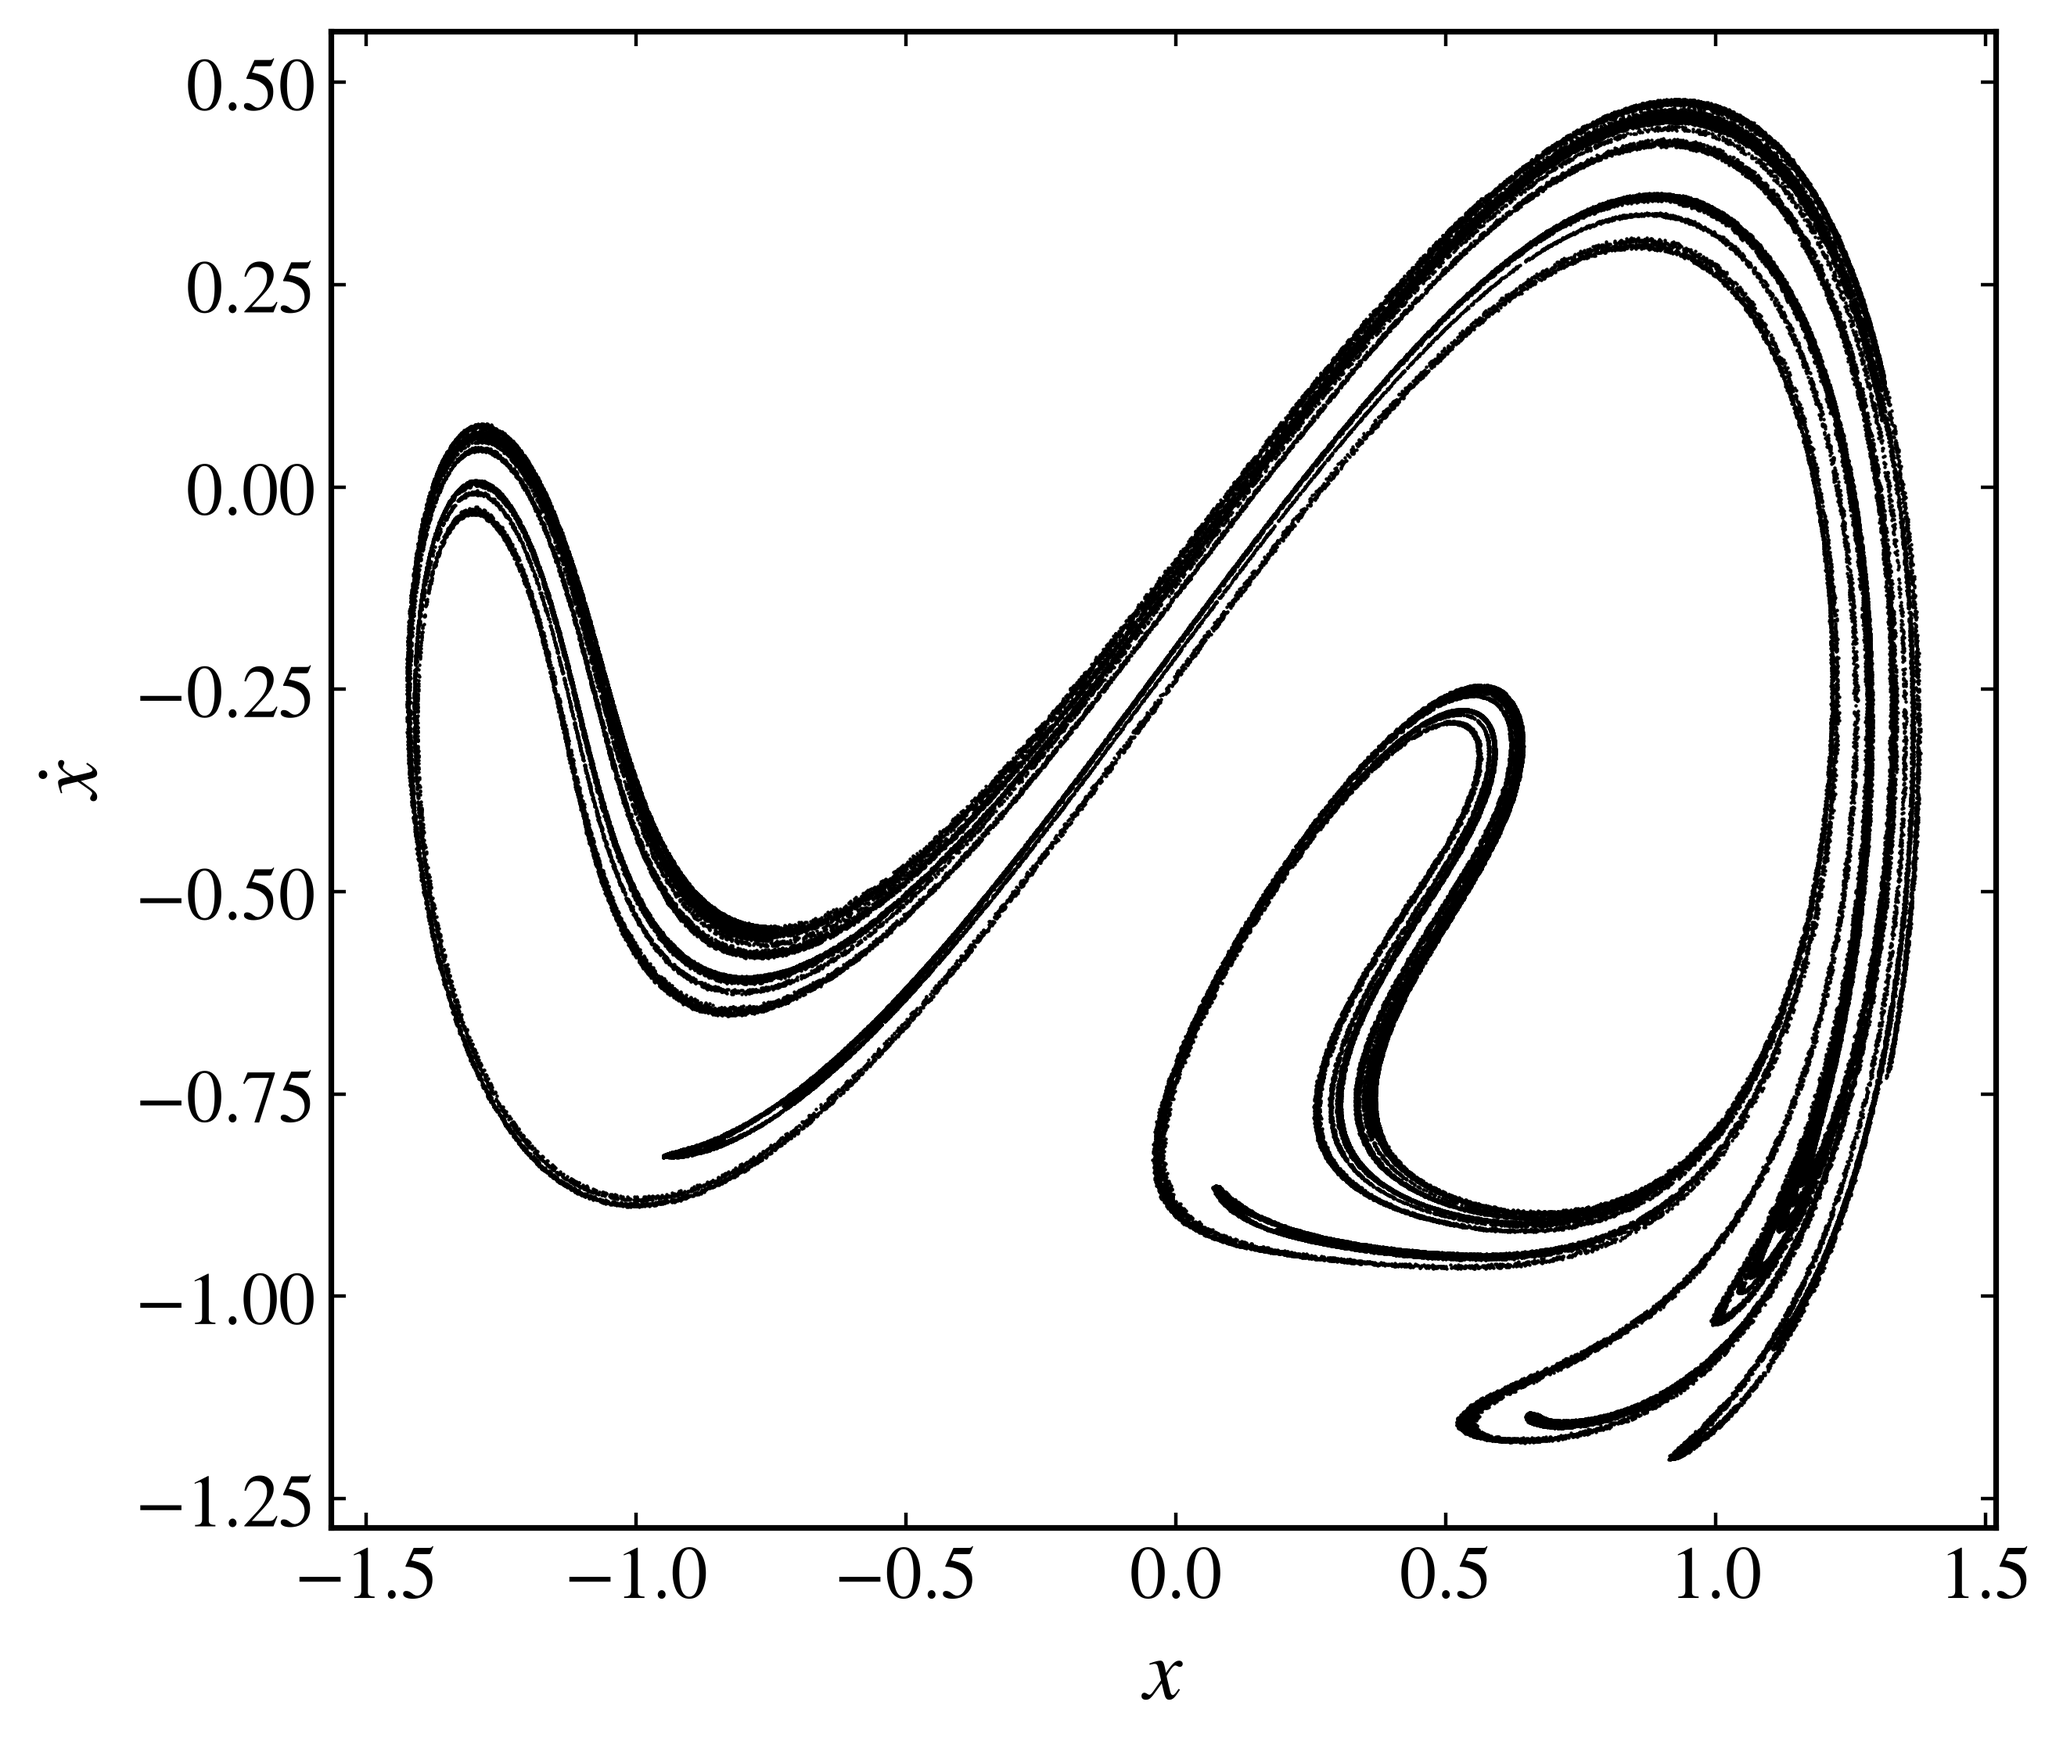
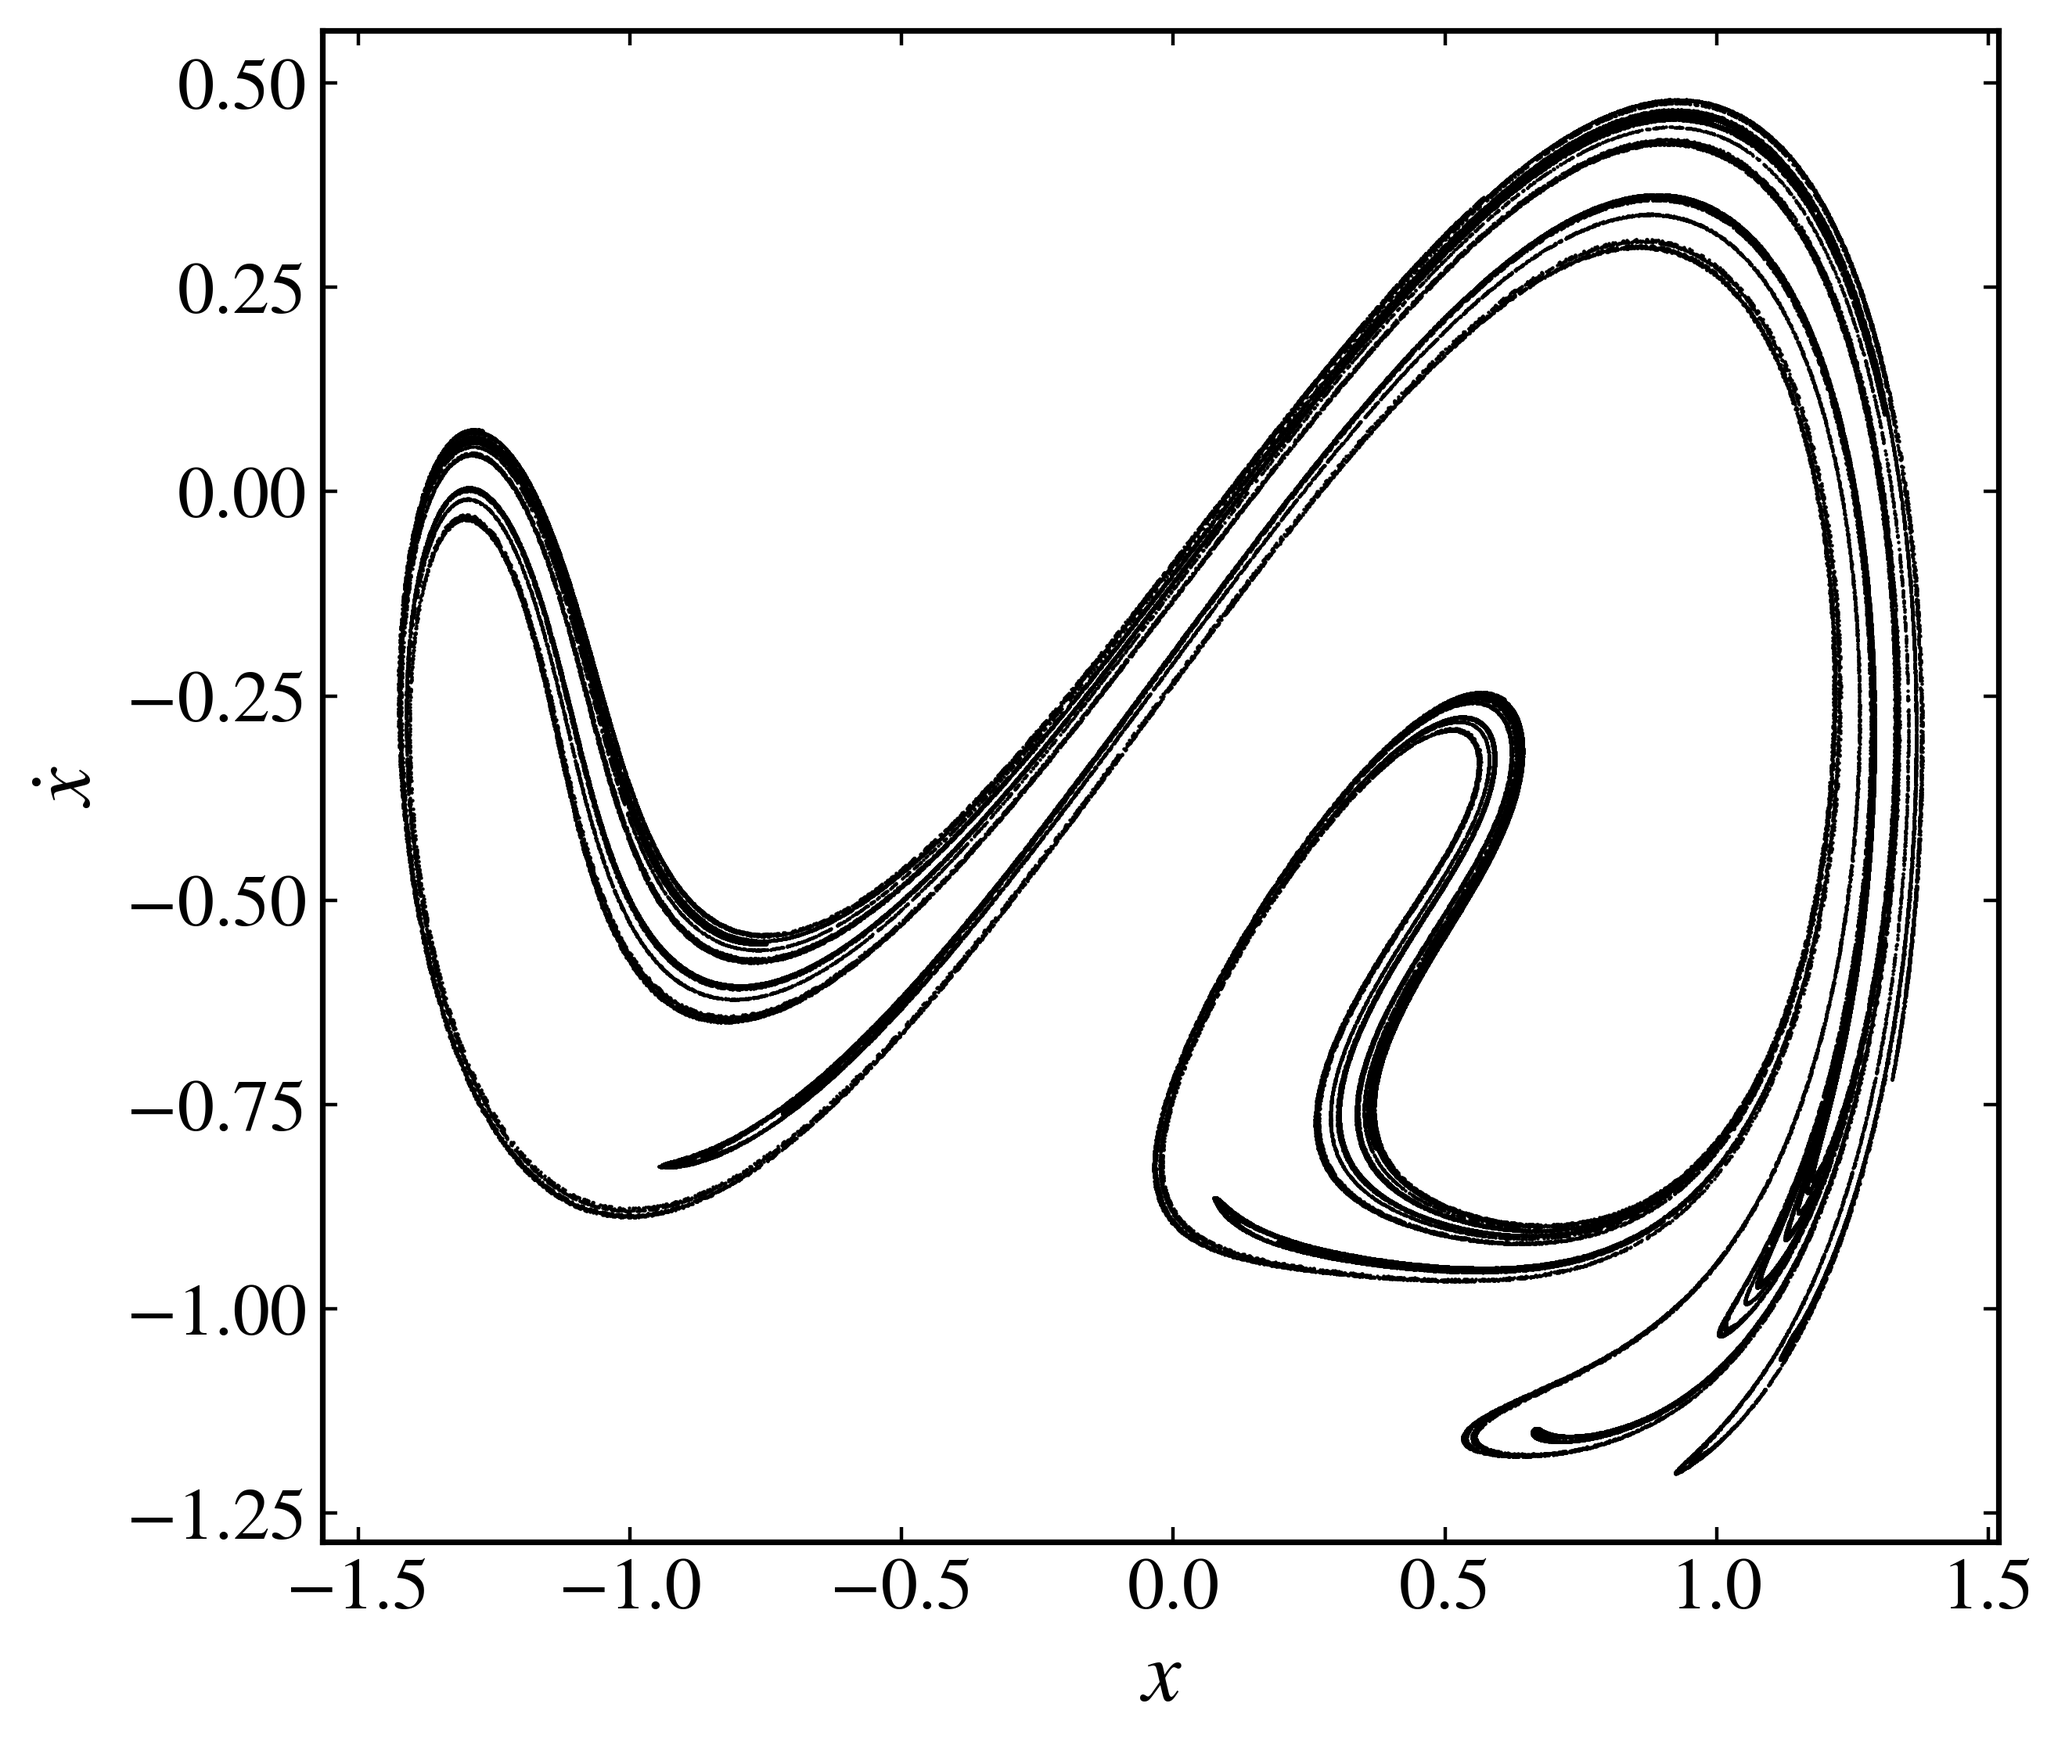
fix: land the stroboscopic map exactly on each sampling time

diff --git a/src/pynamicalsys/continuous_time/stroboscopic.py b/src/pynamicalsys/continuous_time/stroboscopic.py
@@ -20,7 +20,7 @@ import numpy as np
 from numba import njit, prange
 
 from pynamicalsys.common.types import flow_t
-from pynamicalsys.continuous_time.step import evolve_system, step
+from pynamicalsys.continuous_time.step import evolve_system, step_to
 
 
 @njit
@@ -69,13 +69,14 @@ def generate_stroboscopic_map(
     NDArray[np.float64]
         Array of shape `(num_intersections, neq + 1)` whose first column
         contains the sampling times and whose remaining columns contain the
-        interpolated state vectors.
+        state vectors at those times.
 
     Notes
     -----
-    The state is sampled at times separated by `sampling_time`. If the
-    integrator overshoots a target sampling time, the state is linearly
-    interpolated between the two bracketing integration points.
+    The state is sampled at times separated by `sampling_time`. The
+    integration lands exactly on every sampling time, shortening the step
+    that would pass it, and then returns to the step size it had before, so
+    each sample has the accuracy of the integrator.
     """
     u = np.asarray(u, dtype=np.float64)
     neq = len(u)
@@ -97,17 +98,19 @@ def generate_stroboscopic_map(
         u_curr = u.copy()
         time_curr = np.float64(0.0)
 
-    time_target = time_curr + sampling_time
-    count = 0
+    time_start = time_curr
 
-    while count < num_intersections:
-        u_prev = u_curr.copy()
-        time_prev = time_curr
+    for count in range(num_intersections):
+        # Computed from the start instead of accumulated, so that round-off
+        # does not drift the sampling times.
+        time_target = time_start + (count + 1) * sampling_time
 
-        while time_curr < time_target:
-            u_curr, time_curr, time_step = step(
+        reached = False
+        while not reached:
+            u_curr, time_curr, time_step, reached = step_to(
                 time=time_curr,
                 u=u_curr,
+                target_time=time_target,
                 parameters=parameters,
                 equations_of_motion=equations_of_motion,
                 time_step=time_step,
@@ -116,12 +119,8 @@ def generate_stroboscopic_map(
                 integrator=integrator,
             )
 
-        lam = (time_target - time_prev) / (time_curr - time_prev)
-        strobe_points[count, 0] = time_target
-        strobe_points[count, 1:] = (1.0 - lam) * u_prev + lam * u_curr
-
-        count += 1
-        time_target += sampling_time
+        strobe_points[count, 0] = time_curr
+        strobe_points[count, 1:] = u_curr
 
     return strobe_points
 

diff --git a/tests/continuous_time/test_stroboscopic_map.py b/tests/continuous_time/test_stroboscopic_map.py
@@ -1,0 +1,49 @@
+"""
+ContinuousDynamicalSystem.stroboscopic_map: the samples are taken at the
+sampling times themselves.
+
+The integration lands exactly on every sampling time, so each sample has the
+accuracy of the integrator, and a step longer than `sampling_time` is split
+instead of skipping samples. The reference is the trajectory sampled at the
+same times with a tight rk45, which also lands exactly on each of them.
+"""
+
+import numpy as np
+import pytest
+
+from pynamicalsys import ContinuousDynamicalSystem as CDS
+
+U0 = [1.0, 1.0, 1.0]
+NUM_SAMPLES = 20
+
+
+@pytest.fixture
+def lorenz():
+    ds = CDS(model="lorenz system")
+    ds.set_parameters([10.0, 28.0, 8.0 / 3.0])
+    return ds
+
+
+def reference(ds, sampling_time):
+    times = sampling_time * np.arange(1, NUM_SAMPLES + 1)
+    ds.integrator("rk45", atol=1e-13, rtol=1e-13)
+    return ds.trajectory(U0, times[-1], sample_times=times)
+
+
+@pytest.mark.parametrize(
+    "integrator, options, sampling_time, tolerance",
+    [
+        ("rk4", dict(time_step=0.01), 0.105, 1e-3),
+        ("rk4", dict(time_step=0.01), 0.004, 1e-6),
+        ("rk45", dict(atol=1e-8, rtol=1e-8), 0.105, 1e-5),
+    ],
+)
+def test_samples_are_taken_at_the_sampling_times(
+    lorenz, integrator, options, sampling_time, tolerance
+):
+    expected = reference(lorenz, sampling_time)
+    lorenz.integrator(integrator, **options)
+    strobe = lorenz.stroboscopic_map(U0, NUM_SAMPLES, sampling_time=sampling_time)
+
+    np.testing.assert_array_equal(strobe[:, 0], expected[:, 0])
+    np.testing.assert_allclose(strobe[:, 1:], expected[:, 1:], rtol=0, atol=tolerance)

diff --git a/CHANGELOG.md b/CHANGELOG.md
@@ -63,6 +63,7 @@ and this project adheres to [Semantic Versioning](https://semver.org/spec/v2.0.0
 - `ContinuousDynamicalSystem.CLV` and `CLV_angles` did not restore the step size after shortening a step to end a block of `warmup_time` or `tail_time`. With `rk4`, the following steps used the shortened step, and when round-off left a step of the order of 1e-17, the computation practically never ended, for example with `time_step=0.01`, `qr_time_step=0.1`, and `warmup_time=0.5`. The step size is now restored after each block.
 - `ContinuousDynamicalSystem.CLV` and `CLV_angles` with `warmup_time` counted the stored blocks from the end of the transient instead of the end of the warmup, so the first blocks after the warmup were empty and the stored times were wrong, sometimes decreasing. The samples now run from `transient_time + warmup_time` to `total_time`, and a `ValueError` is raised when `transient_time + warmup_time` is not smaller than `total_time`.
 - `ContinuousDynamicalSystem.CLV` and `CLV_angles` could lose a QR block of the stored interval, the warmup, or the tail to round-off, for example three blocks of `qr_time_step=0.1` in a duration of 0.3, because 0.3 / 0.1 is slightly less than 3 in floating point. Durations are still rounded down to whole multiples of `qr_time_step`, but a ratio within round-off of an integer now counts as that integer.
+- `ContinuousDynamicalSystem.stroboscopic_map` interpolated the state linearly between the two integration steps around each sampling time, with errors of order one on the Lorenz system with `rk4` and `time_step=0.01`, and it failed with a `ZeroDivisionError` when a step was longer than `sampling_time`. The integration now lands exactly on every sampling time, so each sample has the accuracy of the integrator, and the sampling times are computed from the start instead of accumulated. This also applies to `recurrence_time_entropy`, `hurst_exponent`, and `basin_of_attraction` with `map_type="SM"`.
 - `PlotStyler(tick_direction_in=False)` had no effect, and ticks always pointed inward. Ticks now point outward when it is `False`.
 - The **recurrence time entropy** left out white vertical lines that end at a recurrence point in the last column of the recurrence matrix. These lines do not touch the border and are now counted, so `recurrence_time_entropy` and the white vertical line distribution it returns with `return_p=True` may differ from those of v1.4.6 to v1.7.1, in which this error was present.
 - `TimeSeriesMetrics.recurrence_time_entropy` and `TimeSeriesMetrics.recurrence_matrix` with `compute_white_vert_distr=True` left out lines of length exactly `lmin`, so they started the distribution at `lmin + 1`. They now start it at `lmin` and give the same result as the `recurrence_time_entropy` method of `DiscreteDynamicalSystem`, `ContinuousDynamicalSystem`, and `HamiltonianSystem` for the same time series.

diff --git a/docs/source/cds_reduced_maps.rst b/docs/source/cds_reduced_maps.rst
@@ -83,7 +83,7 @@ For a forcing period :math:`T=2\pi/\omega`, use :py:meth:`stroboscopic_map <pyna
         transient_time=500.0,
     )
 
-The ``num_samples`` argument counts the recorded stroboscopic points, while ``transient_time`` remains a duration in the system's time units. Sampling begins one ``sampling_time`` after the transient. When a target time lies between integration steps, the state is linearly interpolated at that time.
+The ``num_samples`` argument counts the recorded stroboscopic points, while ``transient_time`` remains a duration in the system's time units. Sampling begins one ``sampling_time`` after the transient. The integration lands exactly on every sampling time, shortening the step that would pass it, so each sample has the accuracy of the integrator.
 
 Each row contains ``[time, x, x_dot]`` for this two-dimensional first-order representation of the Duffing equation:
 
@@ -163,7 +163,7 @@ Numerical options
     Direction of the Poincaré-section crossings to record. The default ``1`` keeps crossings in which the selected coordinate increases, ``-1`` keeps those in which it decreases, and ``0`` keeps both. The direction is determined from the sign of the corresponding component of the vector field at the interpolated crossing.
 
 ``time_step``, ``atol``, and ``rtol``
-    Set with ``integrator``. The recorded points are interpolated between integration steps: linearly for Poincaré sections and stroboscopic maps, and, for maxima maps, quadratically in time and then linearly in the state. The interpolation error therefore depends on the step size and not only on the order of the integrator. A smaller ``time_step`` with ``rk4``, or tighter tolerances with ``rk45``, which shortens the steps, improves the accuracy of the recorded points.
+    Set with ``integrator``. The points of Poincaré sections and maxima maps are interpolated between integration steps: linearly for Poincaré sections, and, for maxima maps, quadratically in time and then linearly in the state. The interpolation error therefore depends on the step size and not only on the order of the integrator. Stroboscopic maps are not interpolated, since the integration lands exactly on each sampling time. A smaller ``time_step`` with ``rk4``, or tighter tolerances with ``rk45``, which shortens the steps, improves the accuracy of the recorded points.
 
 References
 ~~~~~~~~~~

diff --git a/docs/source/cds_basins.rst b/docs/source/cds_basins.rst
@@ -118,7 +118,7 @@ Numerical options
     The DBSCAN parameters. ``eps``, by default ``0.05``, is the largest distance between two centroids of the same cluster and should be smaller than the distance between the centroids of different attractors. ``min_samples``, by default ``1``, is the number of nearby centroids needed to form a cluster. With ``min_samples=1``, no centroid is labeled as noise.
 
 ``time_step``, ``atol``, and ``rtol``
-    Set with ``integrator``. The reduced maps are interpolated between integration steps, as described in :doc:`cds_reduced_maps`, so their accuracy depends on the step size.
+    Set with ``integrator``. Poincaré sections are interpolated between integration steps, and stroboscopic maps are computed exactly at the sampling times, as described in :doc:`cds_reduced_maps`. In both cases their accuracy depends on the step size.
 
 References
 ~~~~~~~~~~

diff --git a/docs/source/cds_rte.rst b/docs/source/cds_rte.rst
@@ -181,7 +181,7 @@ Numerical options
     The shortest white vertical line counted in the distribution of recurrence times. It defaults to ``1``.
 
 ``time_step``, ``atol``, and ``rtol``
-    Set with ``integrator``. The reduced-map points are interpolated between integration steps, as described in :doc:`cds_reduced_maps`, so their accuracy depends on the step size.
+    Set with ``integrator``. Poincaré-section and maxima-map points are interpolated between integration steps, and stroboscopic-map points are computed exactly at the sampling times, as described in :doc:`cds_reduced_maps`. In all cases their accuracy depends on the step size.
 
 References
 ~~~~~~~~~~
